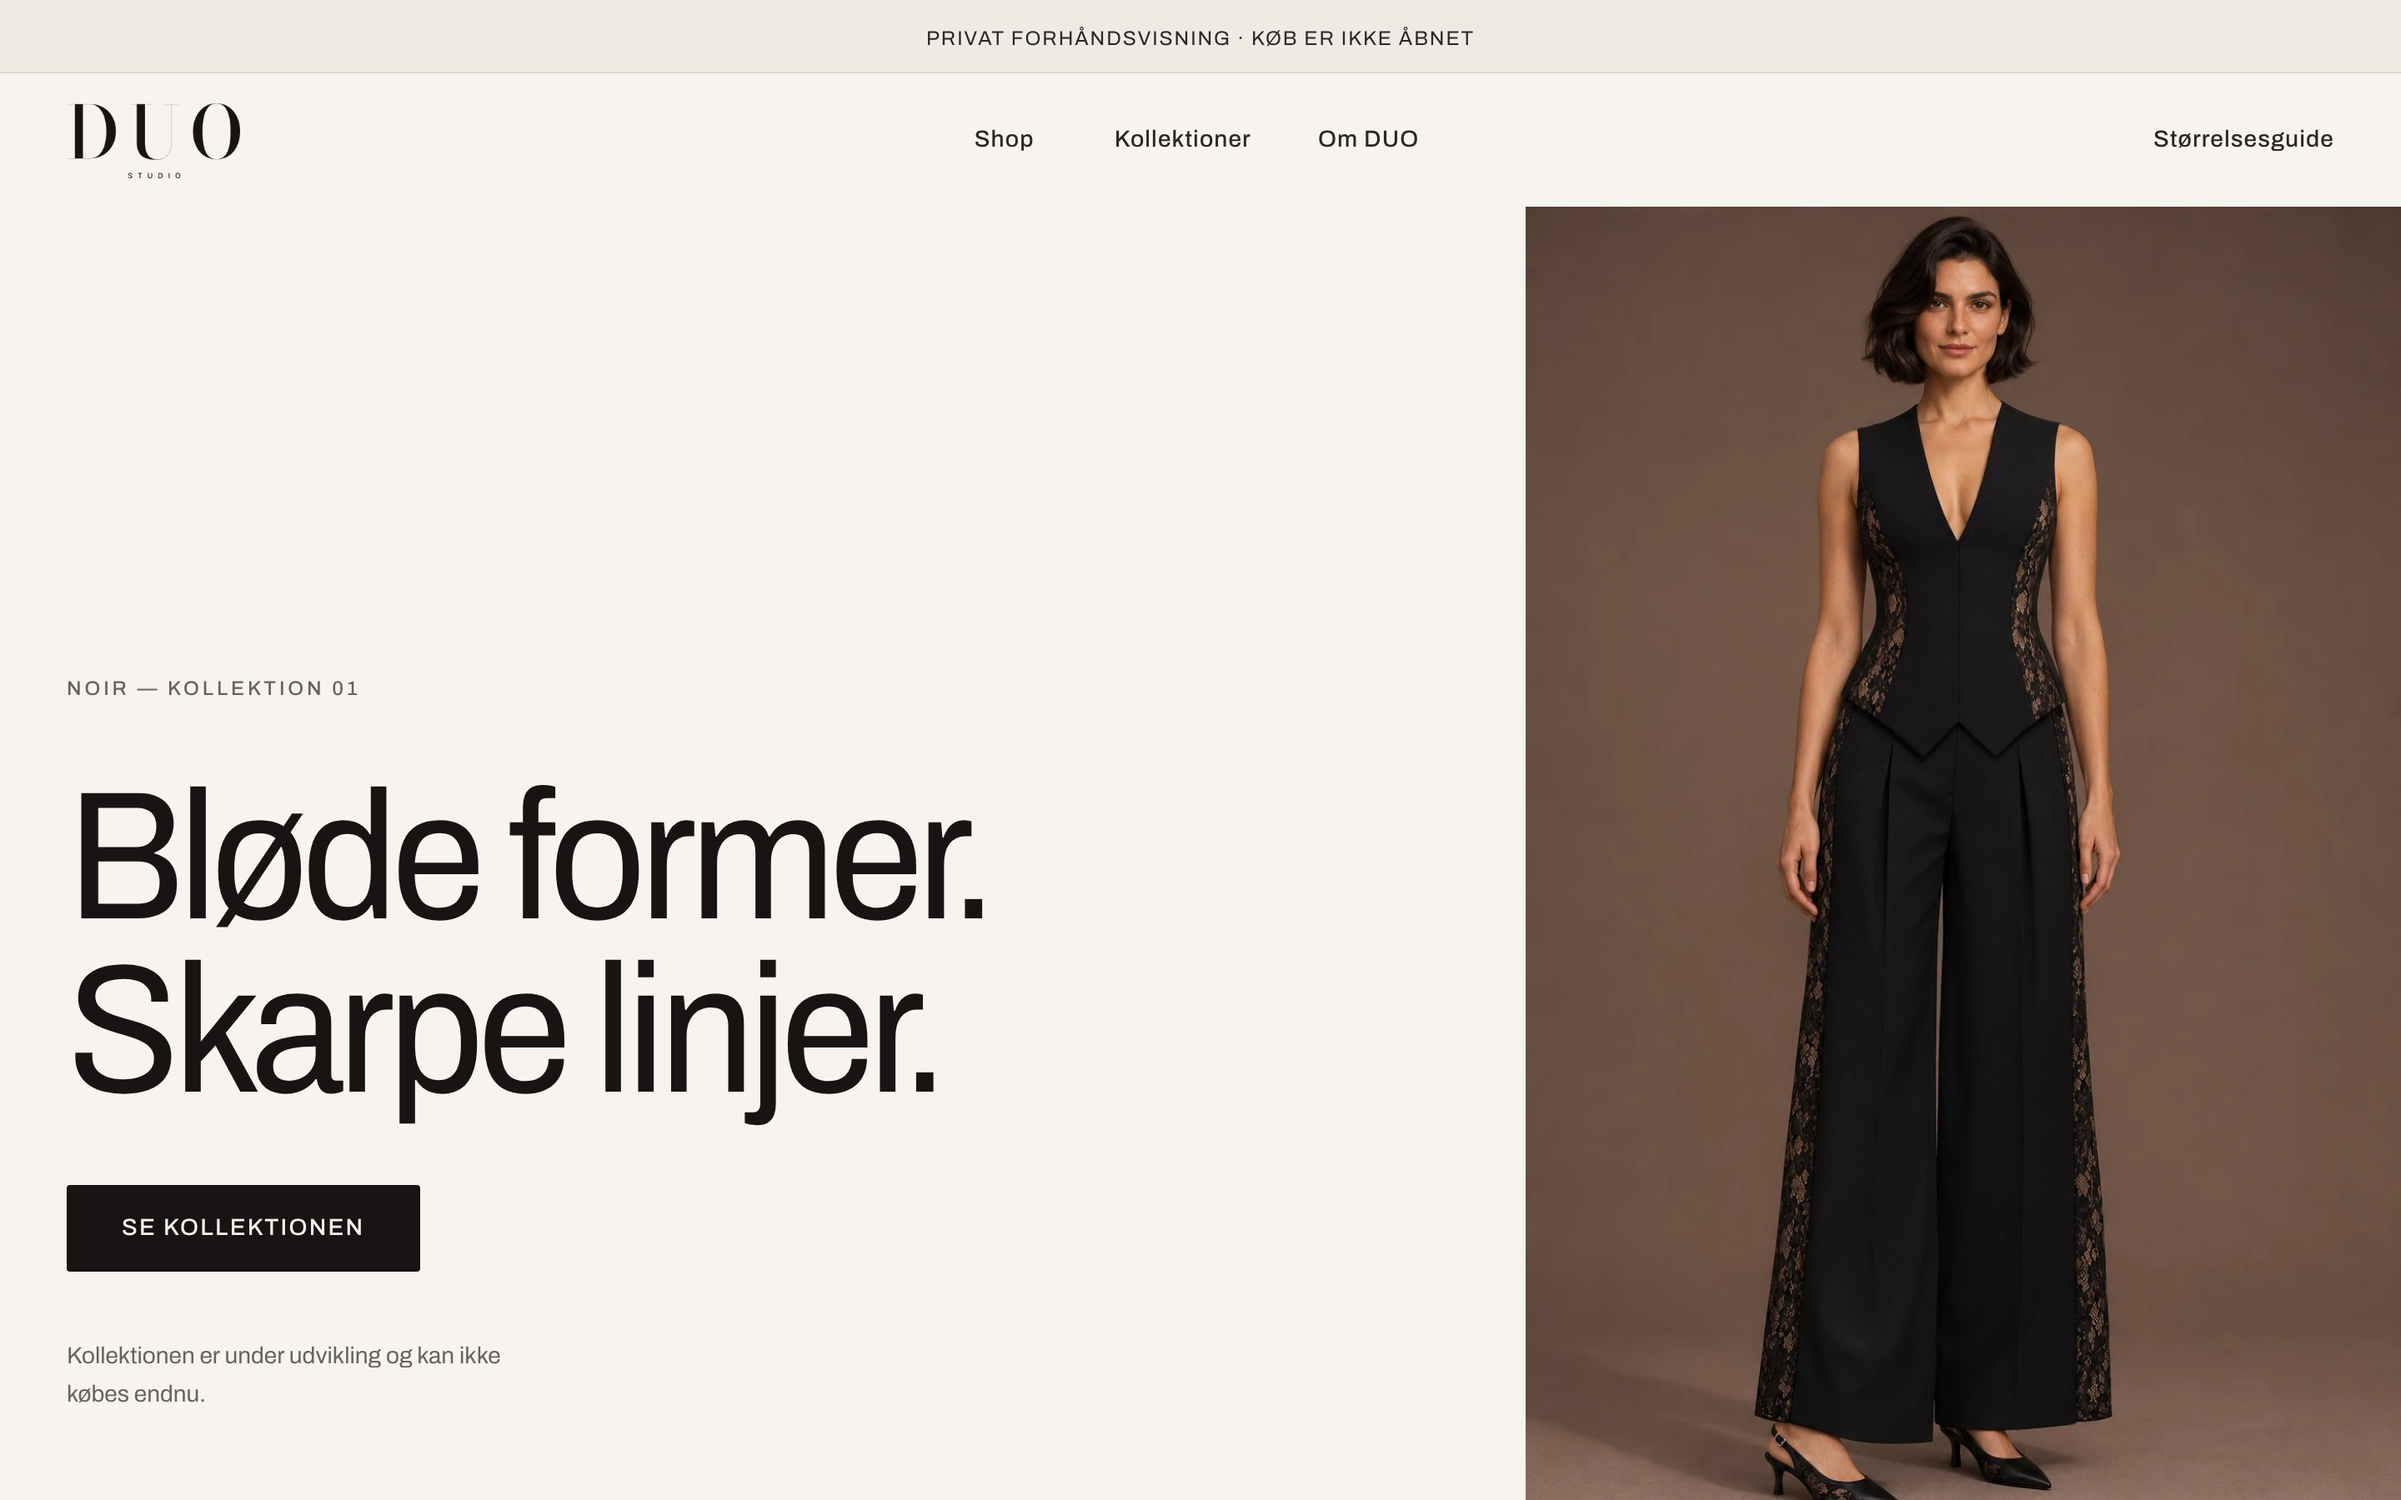
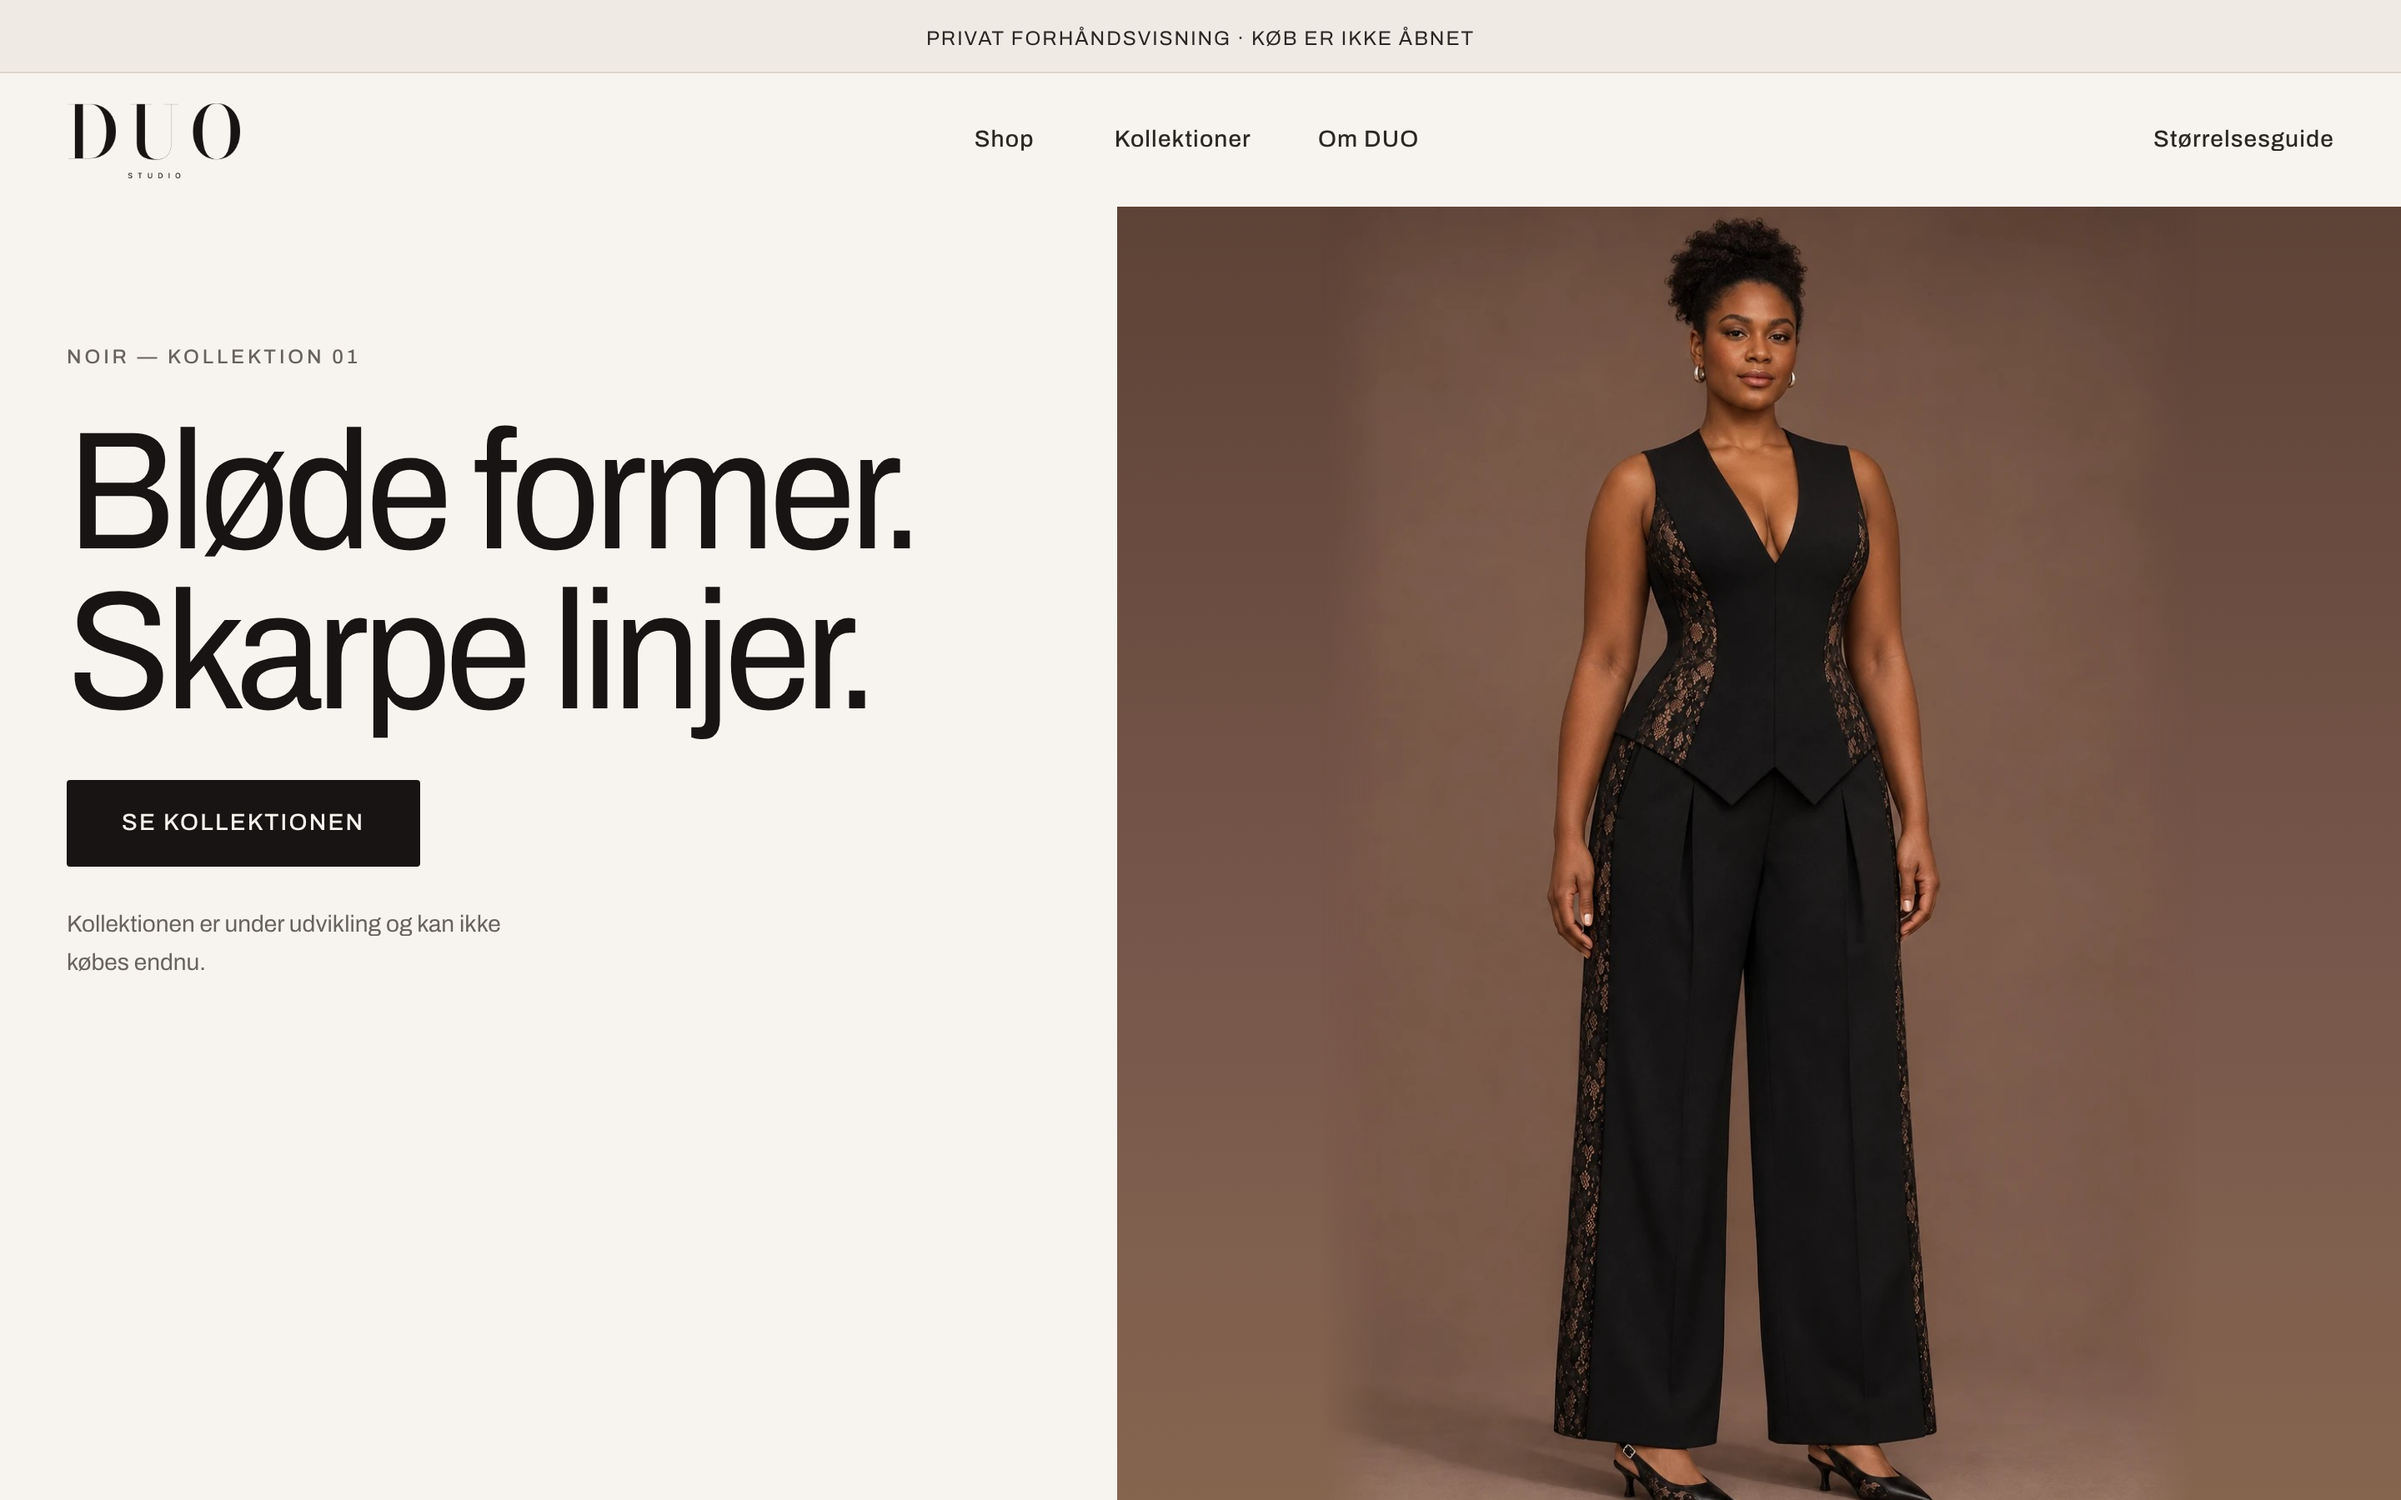
Hero: noir-m2, billedflade 53 %, hele looket med object-fit: contain, label/H1/CTA over folden på mobil
Claude-Session: https://claude.ai/code/session_01Kuo4P2b8Y1wikGgzgnL9No

diff --git a/duo-studio/index.html b/duo-studio/index.html
@@ -938,7 +938,7 @@ body.no-ai-tags .review,body.no-ai-tags .fx-ai{display:none!important}
 
 
 /* ================= Forside (kampagne) ================= */
-.h-h1{font-family:var(--ui);font-weight:400;font-stretch:92%;font-size:clamp(40px,7.6vw,150px);line-height:.95;letter-spacing:-.035em;color:var(--ink);margin:0}
+.h-h1{font-family:var(--ui);font-weight:400;font-stretch:92%;font-size:clamp(36px,min(7vw,13svh),140px);line-height:.95;letter-spacing:-.035em;color:var(--ink);margin:0}
 .h-h2{font-family:var(--ui);font-weight:400;font-stretch:95%;font-size:clamp(30px,3.6vw,52px);line-height:1.05;letter-spacing:-.025em;color:var(--ink);margin:0}
 .h-cap{font-size:12px;font-weight:500;letter-spacing:.16em;text-transform:uppercase;color:var(--mute);margin:0}
 .h-link{display:inline-flex;align-items:center;min-height:44px;font-size:15px;font-weight:500;color:var(--ink);text-decoration:underline;text-underline-offset:6px;text-decoration-thickness:1px}
@@ -947,20 +947,25 @@ body.no-ai-tags .review,body.no-ai-tags .fx-ai{display:none!important}
 .h-head{display:flex;justify-content:space-between;align-items:baseline;gap:var(--s3);flex-wrap:wrap;margin-bottom:var(--s5)}
 .h-sec > .h-h2{margin-bottom:var(--s5)}
 
+/* Hero: hele looket bevares (object-fit: contain). Billedfladen har fotoets egen baggrundsgradient,
+   og billedets kanter tones blødt ind i den, så fladen kan være bredere end fotoet uden beskæring. */
 .h-hero{display:grid;background:var(--ivory)}
-.h-hero-img{margin:0;background:var(--taupe);overflow:hidden}
-.h-hero-img img{width:100%;height:auto;aspect-ratio:2/3;object-fit:cover;object-position:50% 0%}
-.h-hero-txt{display:grid;gap:var(--s4);justify-items:start;padding:var(--s5) var(--gr) var(--s6) var(--gl)}
+.h-hero-img{margin:0;display:flex;justify-content:center;overflow:hidden;
+  background:linear-gradient(180deg,#5D4236 0%,#6E5043 35%,#76564A 55%,#80604E 82%,#86654F 100%)}
+.h-hero-img img{display:block;height:max(200px,min(50svh,calc(100svh - 360px),150vw));width:auto;max-width:100%;aspect-ratio:2/3;object-fit:contain;
+  -webkit-mask-image:linear-gradient(90deg,transparent 0,#000 7%,#000 93%,transparent 100%);mask-image:linear-gradient(90deg,transparent 0,#000 7%,#000 93%,transparent 100%)}
+.h-hero-txt{display:grid;gap:var(--s3);justify-items:start;padding:var(--s4) var(--gr) var(--s5) var(--gl)}
+.h-hero-txt .btn-p{margin-top:var(--s1)}
 .h-note{margin:0;font-size:14px;color:var(--mute);max-width:36ch}
 @media (min-width:700px){
-  .h-hero{grid-template-columns:minmax(0,1fr) auto;align-items:end;padding-left:var(--gl);column-gap:clamp(24px,4vw,72px)}
-  .h-hero-img{grid-column:2;grid-row:1;width:min(52vw,calc((100svh - 112px) * 2 / 3),760px);aspect-ratio:2/3}
-  .h-hero-img img{height:100%;width:100%}
-  .h-hero-txt{grid-column:1;grid-row:1;padding:0 0 var(--s6);gap:var(--s5);max-width:720px}
+  .h-hero{grid-template-columns:minmax(0,45fr) minmax(0,55fr);align-items:center;padding-left:var(--gl)}
+  .h-hero-img{grid-column:2;grid-row:1;height:min(calc(100svh - 112px),82.5vw,1100px);min-height:520px}
+  .h-hero-img img{height:100%}
+  .h-hero-txt{grid-column:1;grid-row:1;align-self:start;padding:clamp(40px,9svh,112px) clamp(24px,4vw,72px) var(--s6) 0;gap:var(--s4);max-width:720px}
 }
 @media (prefers-reduced-motion:no-preference){
   .h-hero-img img{animation:hSettle 1.6s var(--ease) both}
-  @keyframes hSettle{from{transform:scale(1.04)}to{transform:none}}
+  @keyframes hSettle{from{transform:scale(1.03)}to{transform:none}}
 }
 
 .h-entries{display:grid;gap:var(--s5)}
@@ -1561,13 +1566,13 @@ function viewHome(){
   /* Forside: kampagne → tre kollektioner → udvalgte styles → detalje → lancering */
   const picks = ['alma', 'freja', 'cleo', 'everywhere-tee', 'soft-fit-wide-pants', 'bow-hoodie'].map(byId).filter(Boolean);
   const entries = [
-    ['noir-edit', 'Noir', 'Skarp tailoring og blonde.', 'noir-m2', 'Model i Alma vest, Freja bukser og Cleo slingbacks', 'Kollektion 01'],
+    ['noir-edit', 'Noir', 'Skarp tailoring og blonde.', 'noir-m1', 'Model i Alma vest, Freja bukser og Cleo slingbacks', 'Kollektion 01'],
     ['in-out', 'Penny', 'Afslappede silhuetter til hverdag.', 'penny-l1-model', 'Model i Penny Everywhere-sættet: gul T-shirt og stribede bukser', 'Under udvikling'],
     ['holly', 'Holly', 'Sløjfer og blødere former.', 'holly-wine', 'Model i Holly Bow Hoodie og Wide Pants i Cherry Wine', 'Under udvikling']];
   return `
   <section class="h-hero" aria-labelledby="hH1">
     <figure class="h-hero-img">
-      <img src="${img('noir-m1')}" width="1024" height="1536" fetchpriority="high" decoding="async"
+      <img src="${img('noir-m2')}" width="1024" height="1536" fetchpriority="high" decoding="async"
         alt="Model i Noir: sort Alma vest med blonde i siderne, vide Freja bukser med blonde langs ydersømmen og Cleo slingbacks">
     </figure>
     <div class="h-hero-txt">

diff --git a/duo-studio/tests/redesign.test.js b/duo-studio/tests/redesign.test.js
@@ -52,9 +52,13 @@ const BASE = process.env.BASE || 'http://localhost:8765/';
   await p.close();
 
   // Mobil: menu åbner/lukker med tastatur og fokus vender tilbage
-  for (const w of [320, 390]) {
-    const m = await b.newPage({ viewport: { width: w, height: 800 } });
+  for (const [w, vh] of [[320, 640], [390, 844]]) {
+    const m = await b.newPage({ viewport: { width: w, height: vh } });
     await m.goto(BASE + '#forside'); await m.waitForTimeout(400);
+    const fold = await m.evaluate(() => ['.h-cap', '#hH1', '.h-hero .btn-p'].map(q => document.querySelector(q).getBoundingClientRect().bottom <= innerHeight));
+    check(fold.every(Boolean), `${w}px: label, H1 og CTA synlige uden scroll (${fold})`);
+    const im = await m.evaluate(() => { const i = document.querySelector('.h-hero-img img'); return getComputedStyle(i).objectFit + ' ' + Math.abs(i.getBoundingClientRect().width / i.getBoundingClientRect().height - 2 / 3).toFixed(3); });
+    check(im.startsWith('contain') && parseFloat(im.split(' ')[1]) < 0.01, `${w}px: hero-billede bevarer proportioner (${im})`);
     check(await m.evaluate(() => document.documentElement.scrollWidth <= innerWidth), `${w}px: intet vandret overløb`);
     const box = await m.locator('#menuBtn').boundingBox(); check(box.width >= 44 && box.height >= 44, `${w}px: menu-knap ≥ 44×44`);
     await m.focus('#menuBtn'); await m.keyboard.press('Enter'); await m.waitForTimeout(300);

diff --git a/duo-studio/build.js b/duo-studio/build.js
@@ -15,7 +15,7 @@ const html = `<!doctype html>
 <meta charset="utf-8">
 <meta name="viewport" content="width=device-width, initial-scale=1, viewport-fit=cover">
 <link rel="icon" href="assets/logo.png">
-<link rel="preload" as="image" href="assets/noir-m1.jpg" fetchpriority="high">
+<link rel="preload" as="image" href="assets/noir-m2.jpg" fetchpriority="high">
 <style>:root{padding-top:env(safe-area-inset-top,0px);padding-bottom:env(safe-area-inset-bottom,0px)}body{margin:0}[hidden]{display:none!important}</style>
 </head>
 <body>
